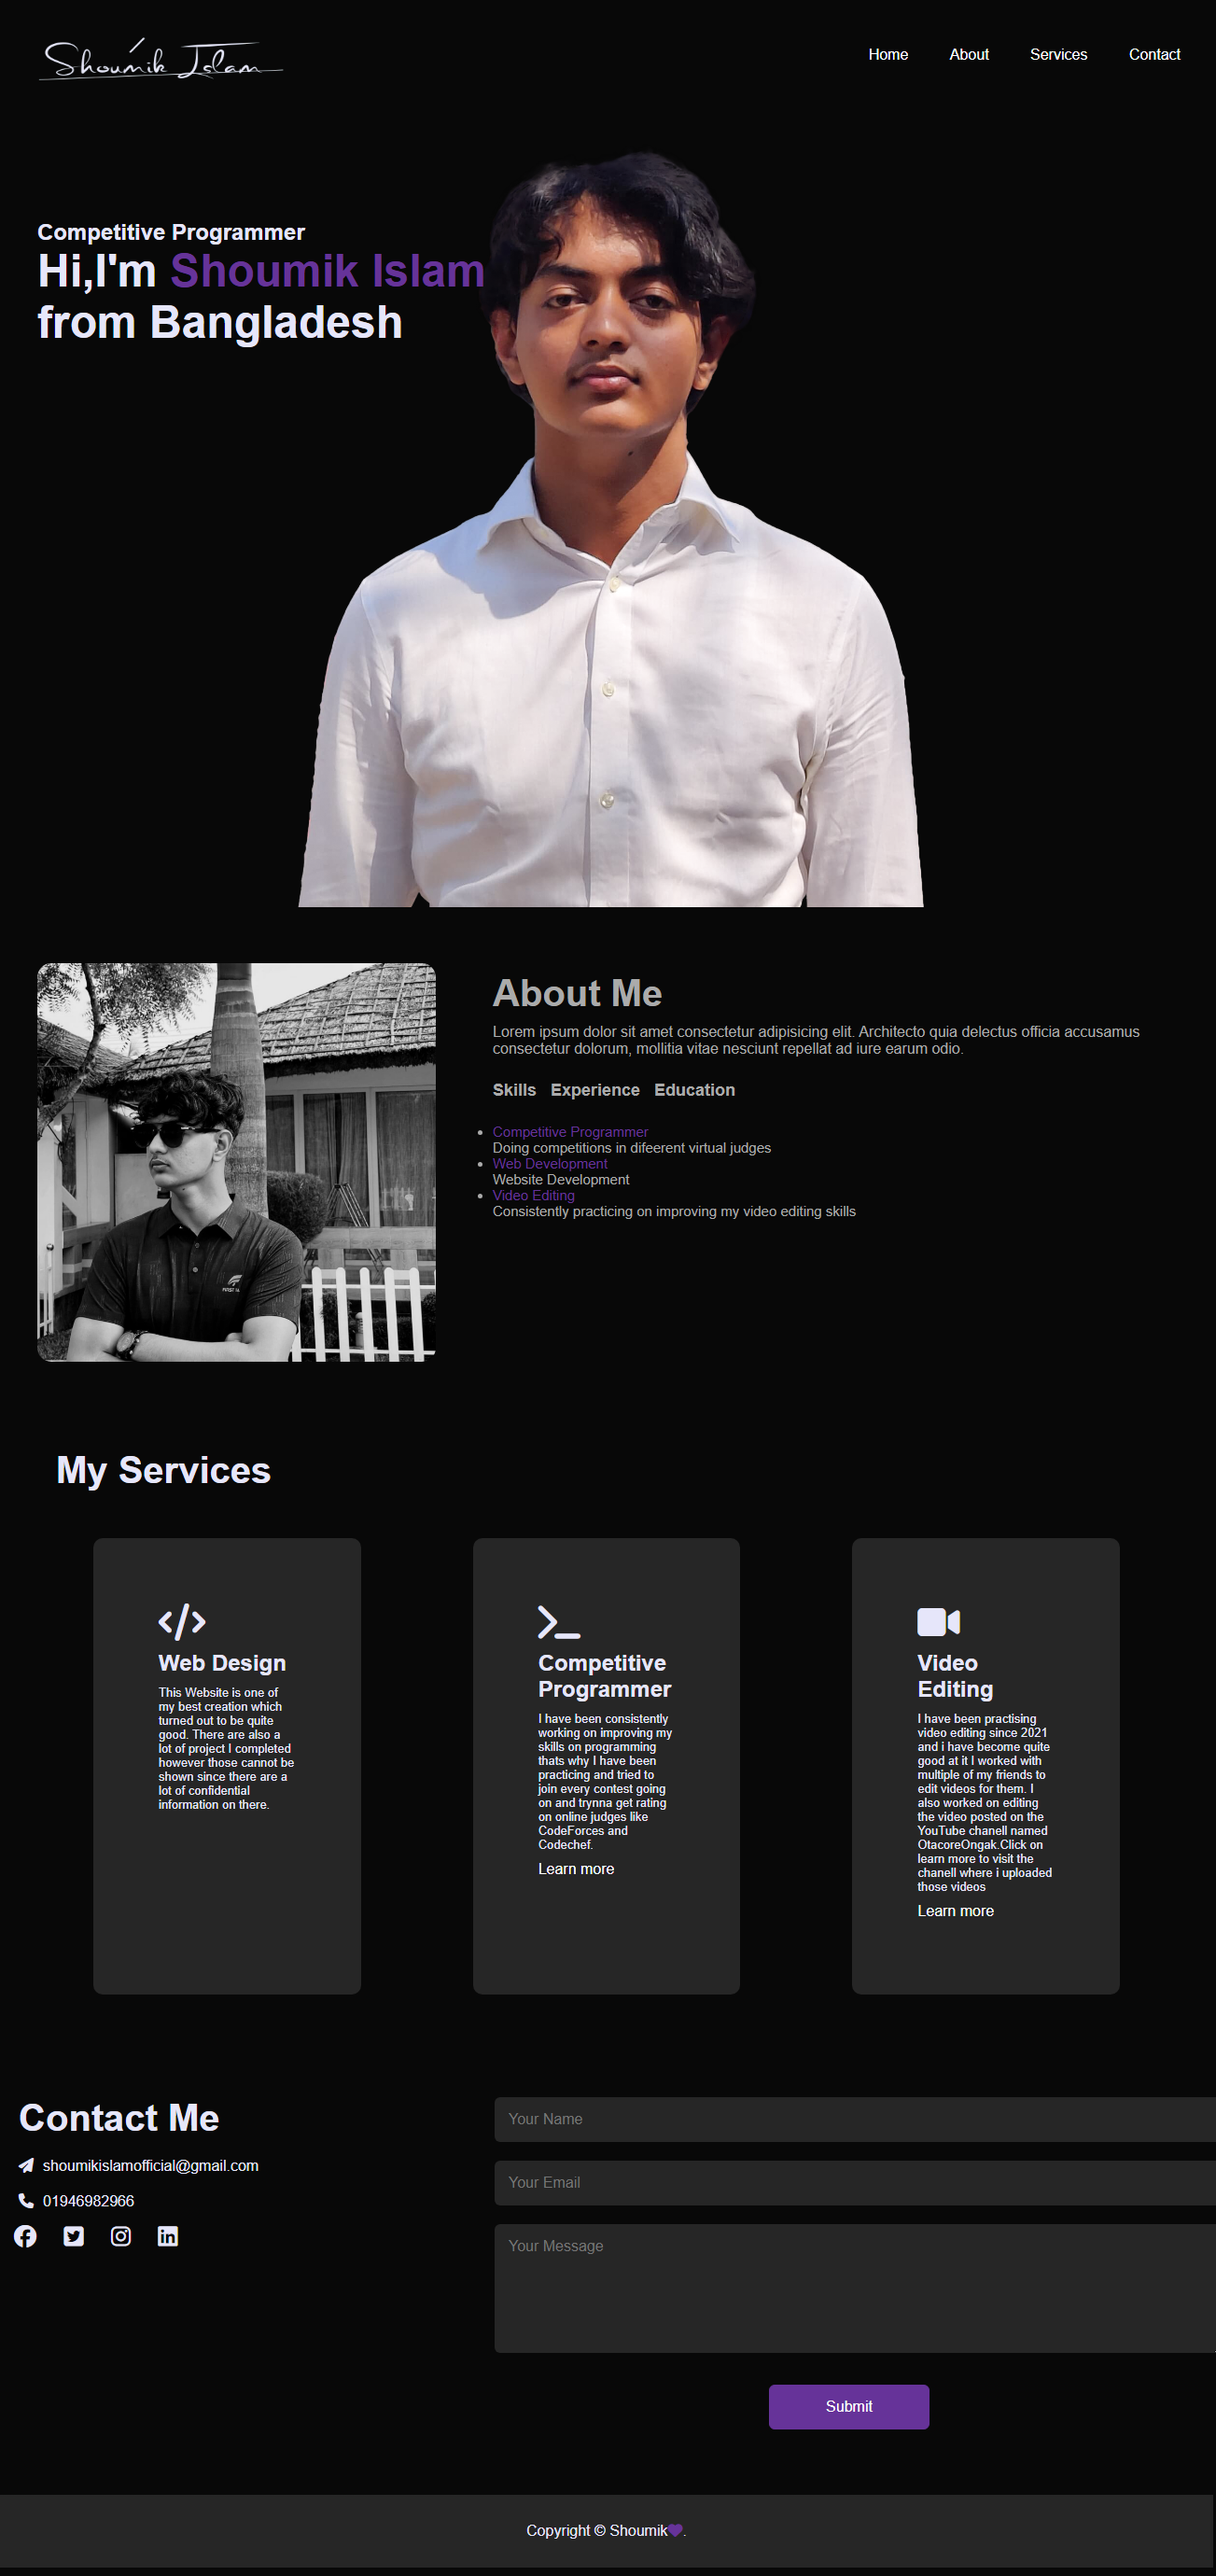
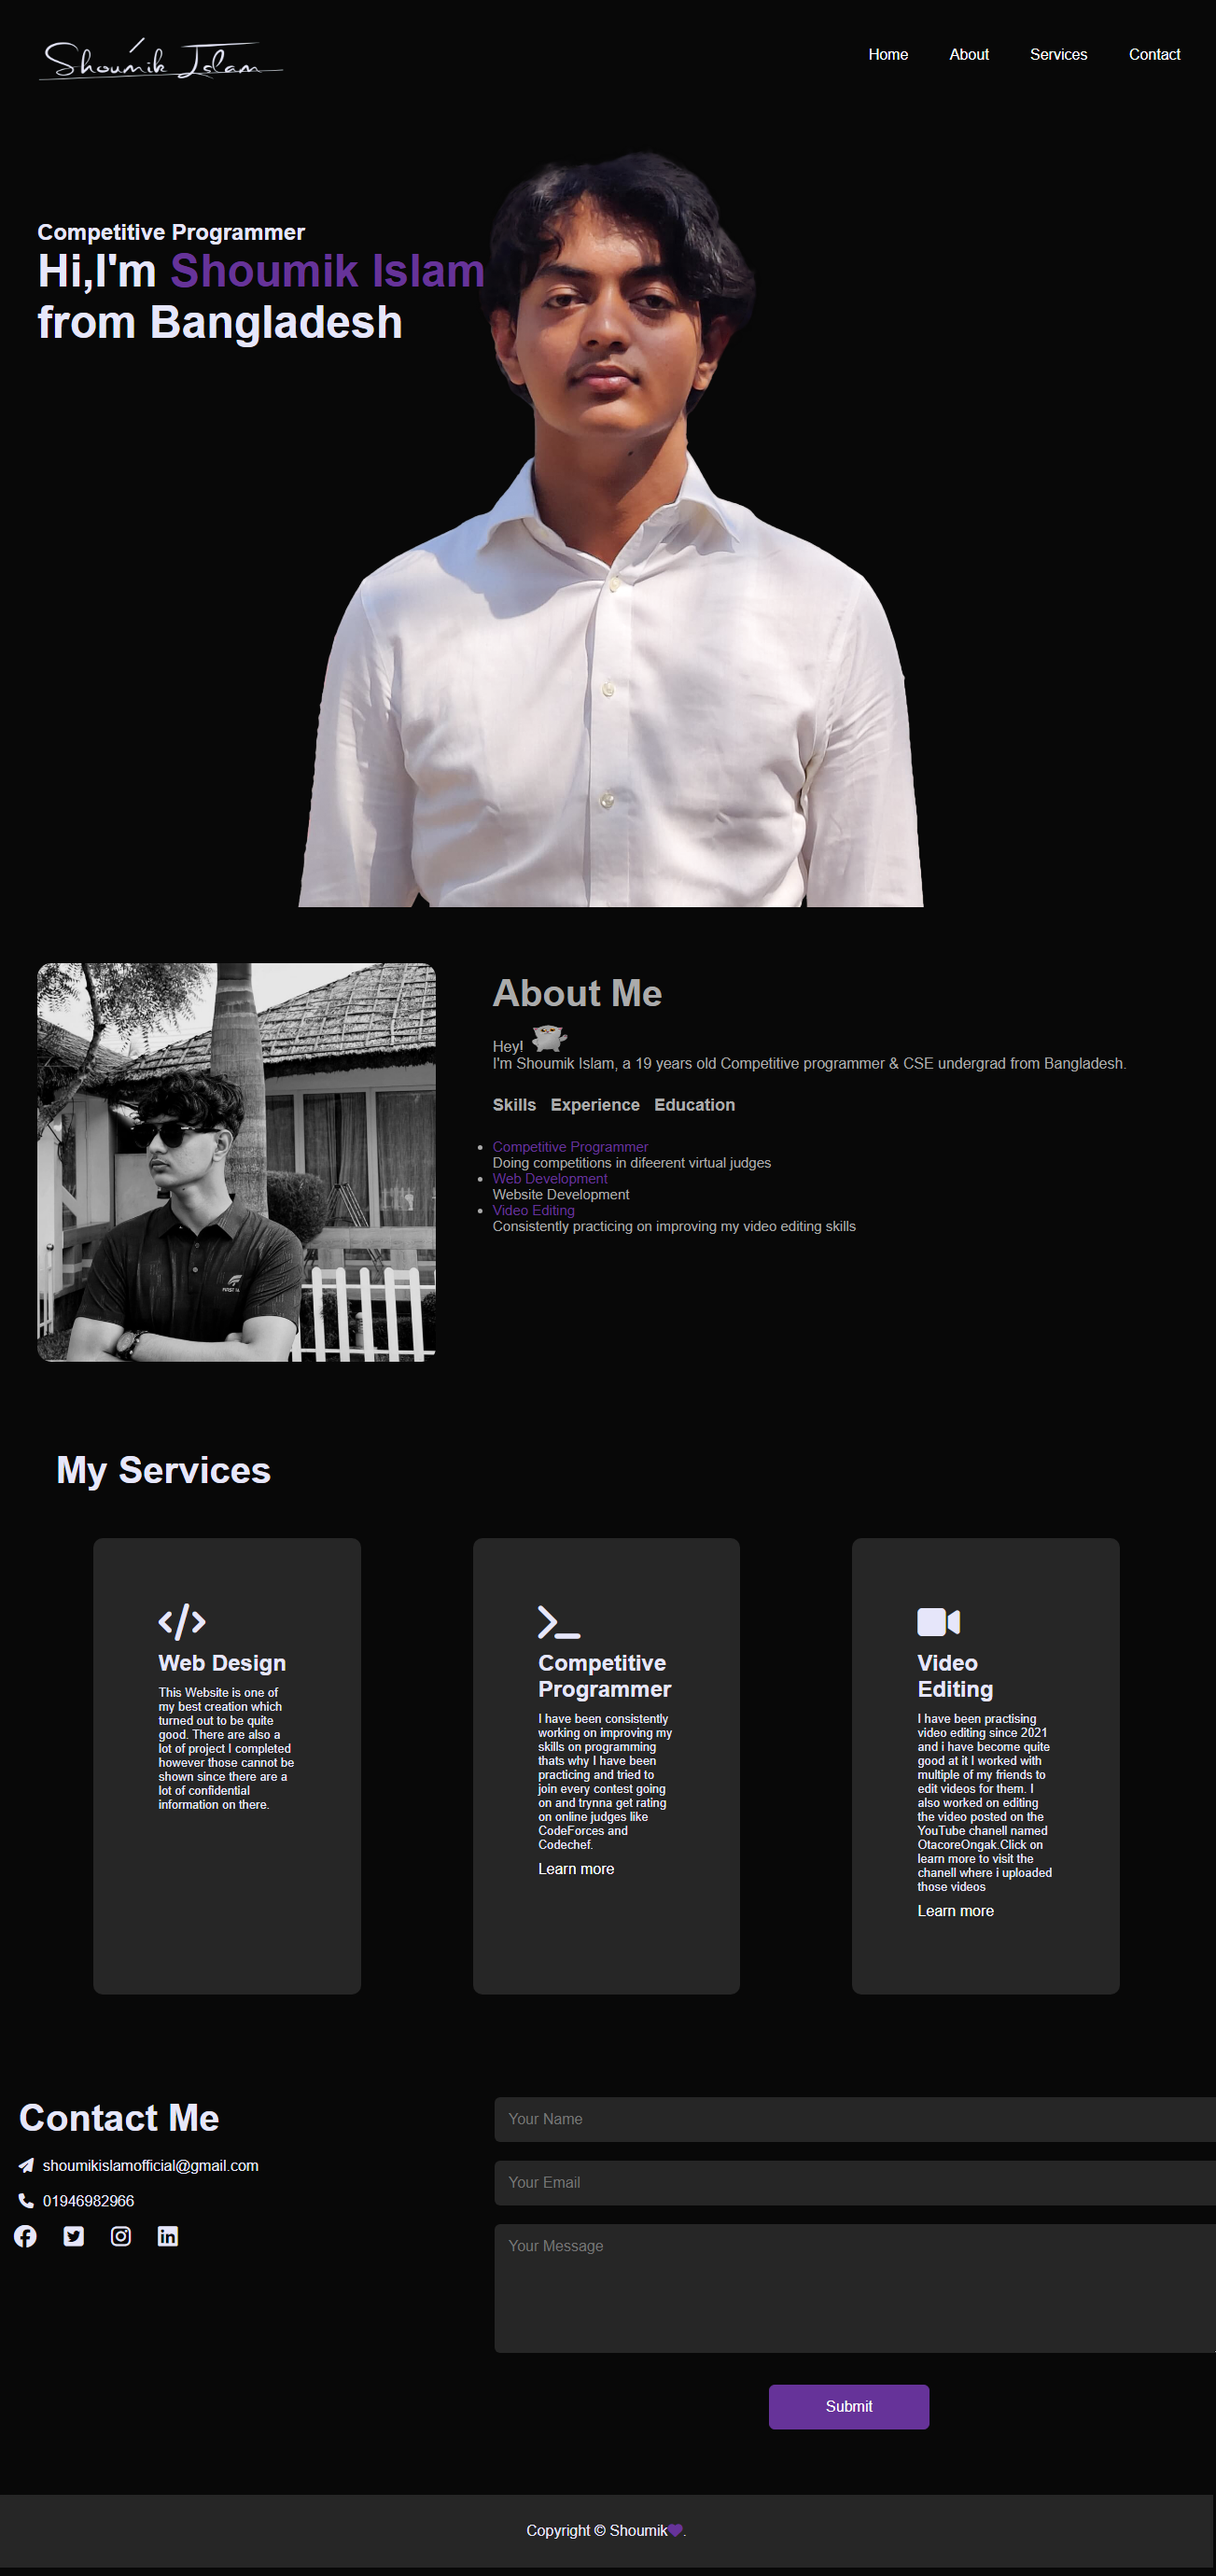
Bug fixes

Changed region(s): [[0.3991, 0.3739, 0.7982, 0.4986]]

diff --git a/index.html b/index.html
@@ -37,7 +37,8 @@
                 </div>
                 <div class="about-col-2">
                     <h1 class="sub-title">About Me</h1>
-                    <p>Lorem ipsum dolor sit amet consectetur adipisicing elit. Architecto quia delectus officia accusamus consectetur dolorum, mollitia vitae nesciunt repellat ad iure earum odio.</p>
+                    <p>Hey!<img src="https://media.tenor.com/mZ1nbBrTzEUAAAAi/blukittie-blu.gif" width="50" height="30" "> <br>
+                        I'm Shoumik Islam, a 19 years old Competitive programmer & CSE undergrad from Bangladesh.</p>
                     <div class="tab-titles">
                         <p class="tab-links active-link" onclick="opentab('skills')">Skills</p>
                         <p class="tab-links" onclick="opentab('experience')">Experience</p>
